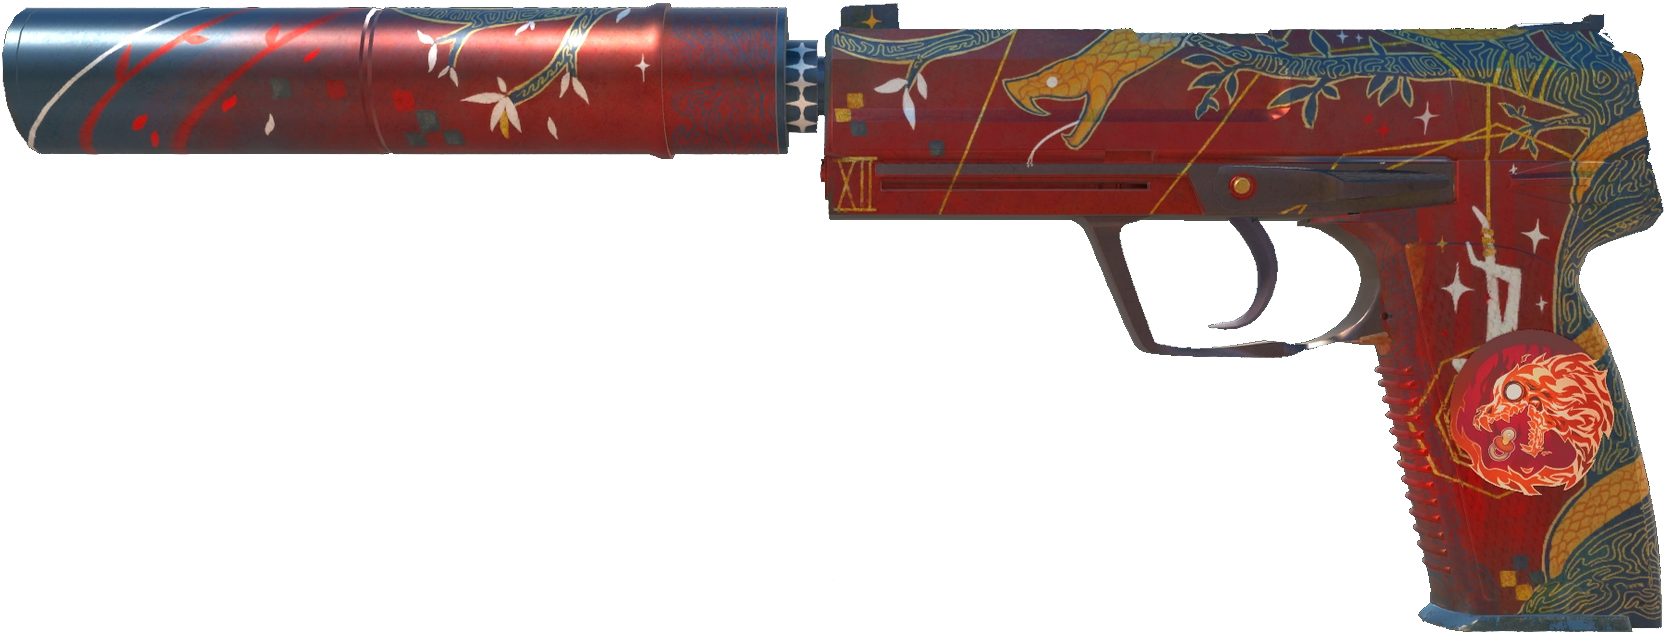
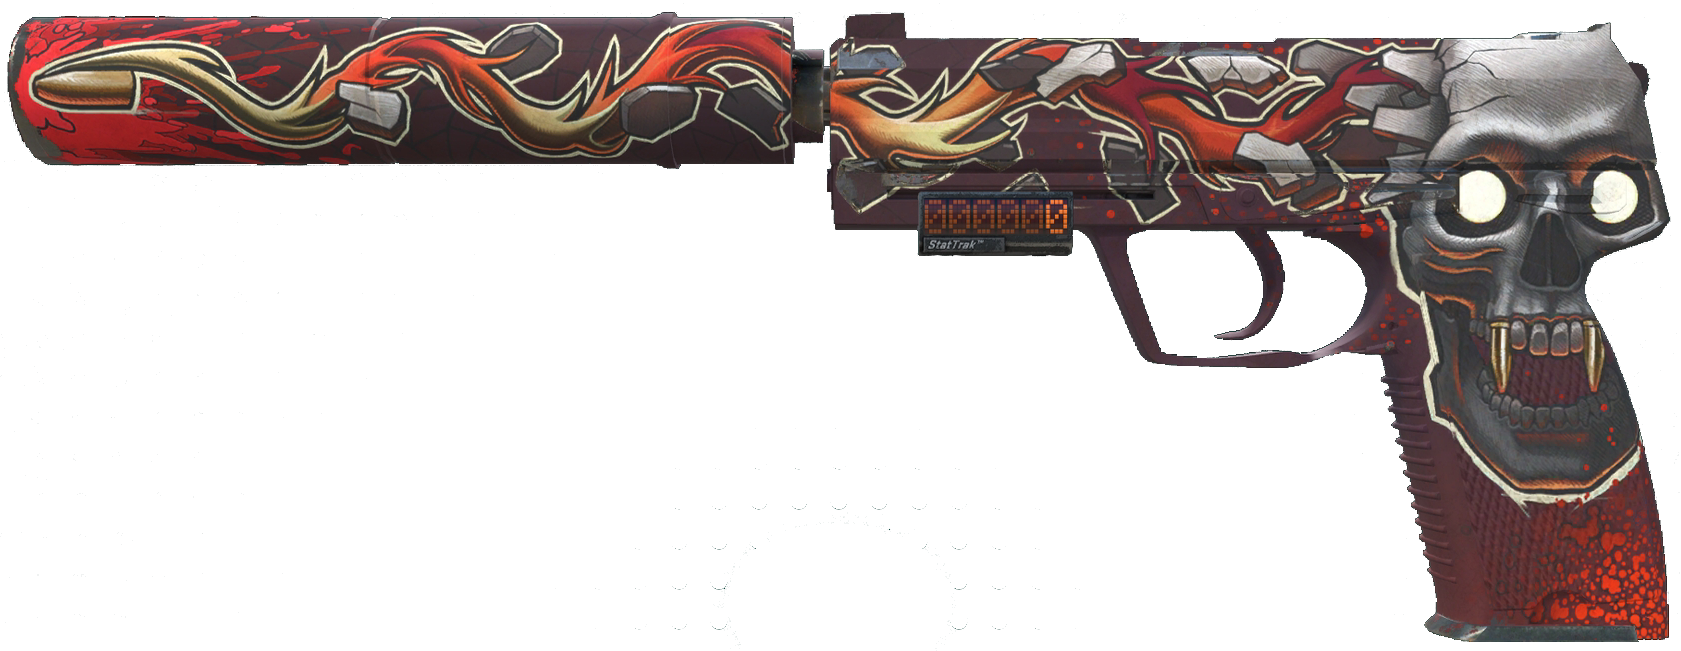
24.3.

diff --git a/CT.html b/CT.html
@@ -51,14 +51,13 @@
           <div class="side side1">
             <div class="img-info">
               <img src="img/usp.png">
-              <h3>USP-S | The Traitor €9.91</h3>
+              <h3>StatTrak™ USP-S | Kill Confirmed €94.63</h3>
             </div>
           </div>
           <div class="side side2">
             <div class="img-info">
               <p>Condition: Well-Worn</p>
-              <p>Baby Howl €1.32</p>
-              <p>A fan favorite from Counter-Strike Source, the Silenced USP Pistol has a detachable silencer that gives shots less recoil while suppressing attention-getting noise. It has been custom painted using the Hanged Man tarot card as inspiration. Past failures are the blueprints for future success</p>
+              <p>A fan favorite from Counter-Strike Source, the Silenced USP Pistol has a detachable silencer that gives shots less recoil while suppressing attention-getting noise. It has been custom painted with the image of a bullet shattering a skull. 2 in the chest, 1 in the head</p>
             </div>
           </div>
         </div>

diff --git a/style/style.css b/style/style.css
@@ -218,4 +218,3 @@ body {
     padding: 0;
     color: #fff;
   }
-  
